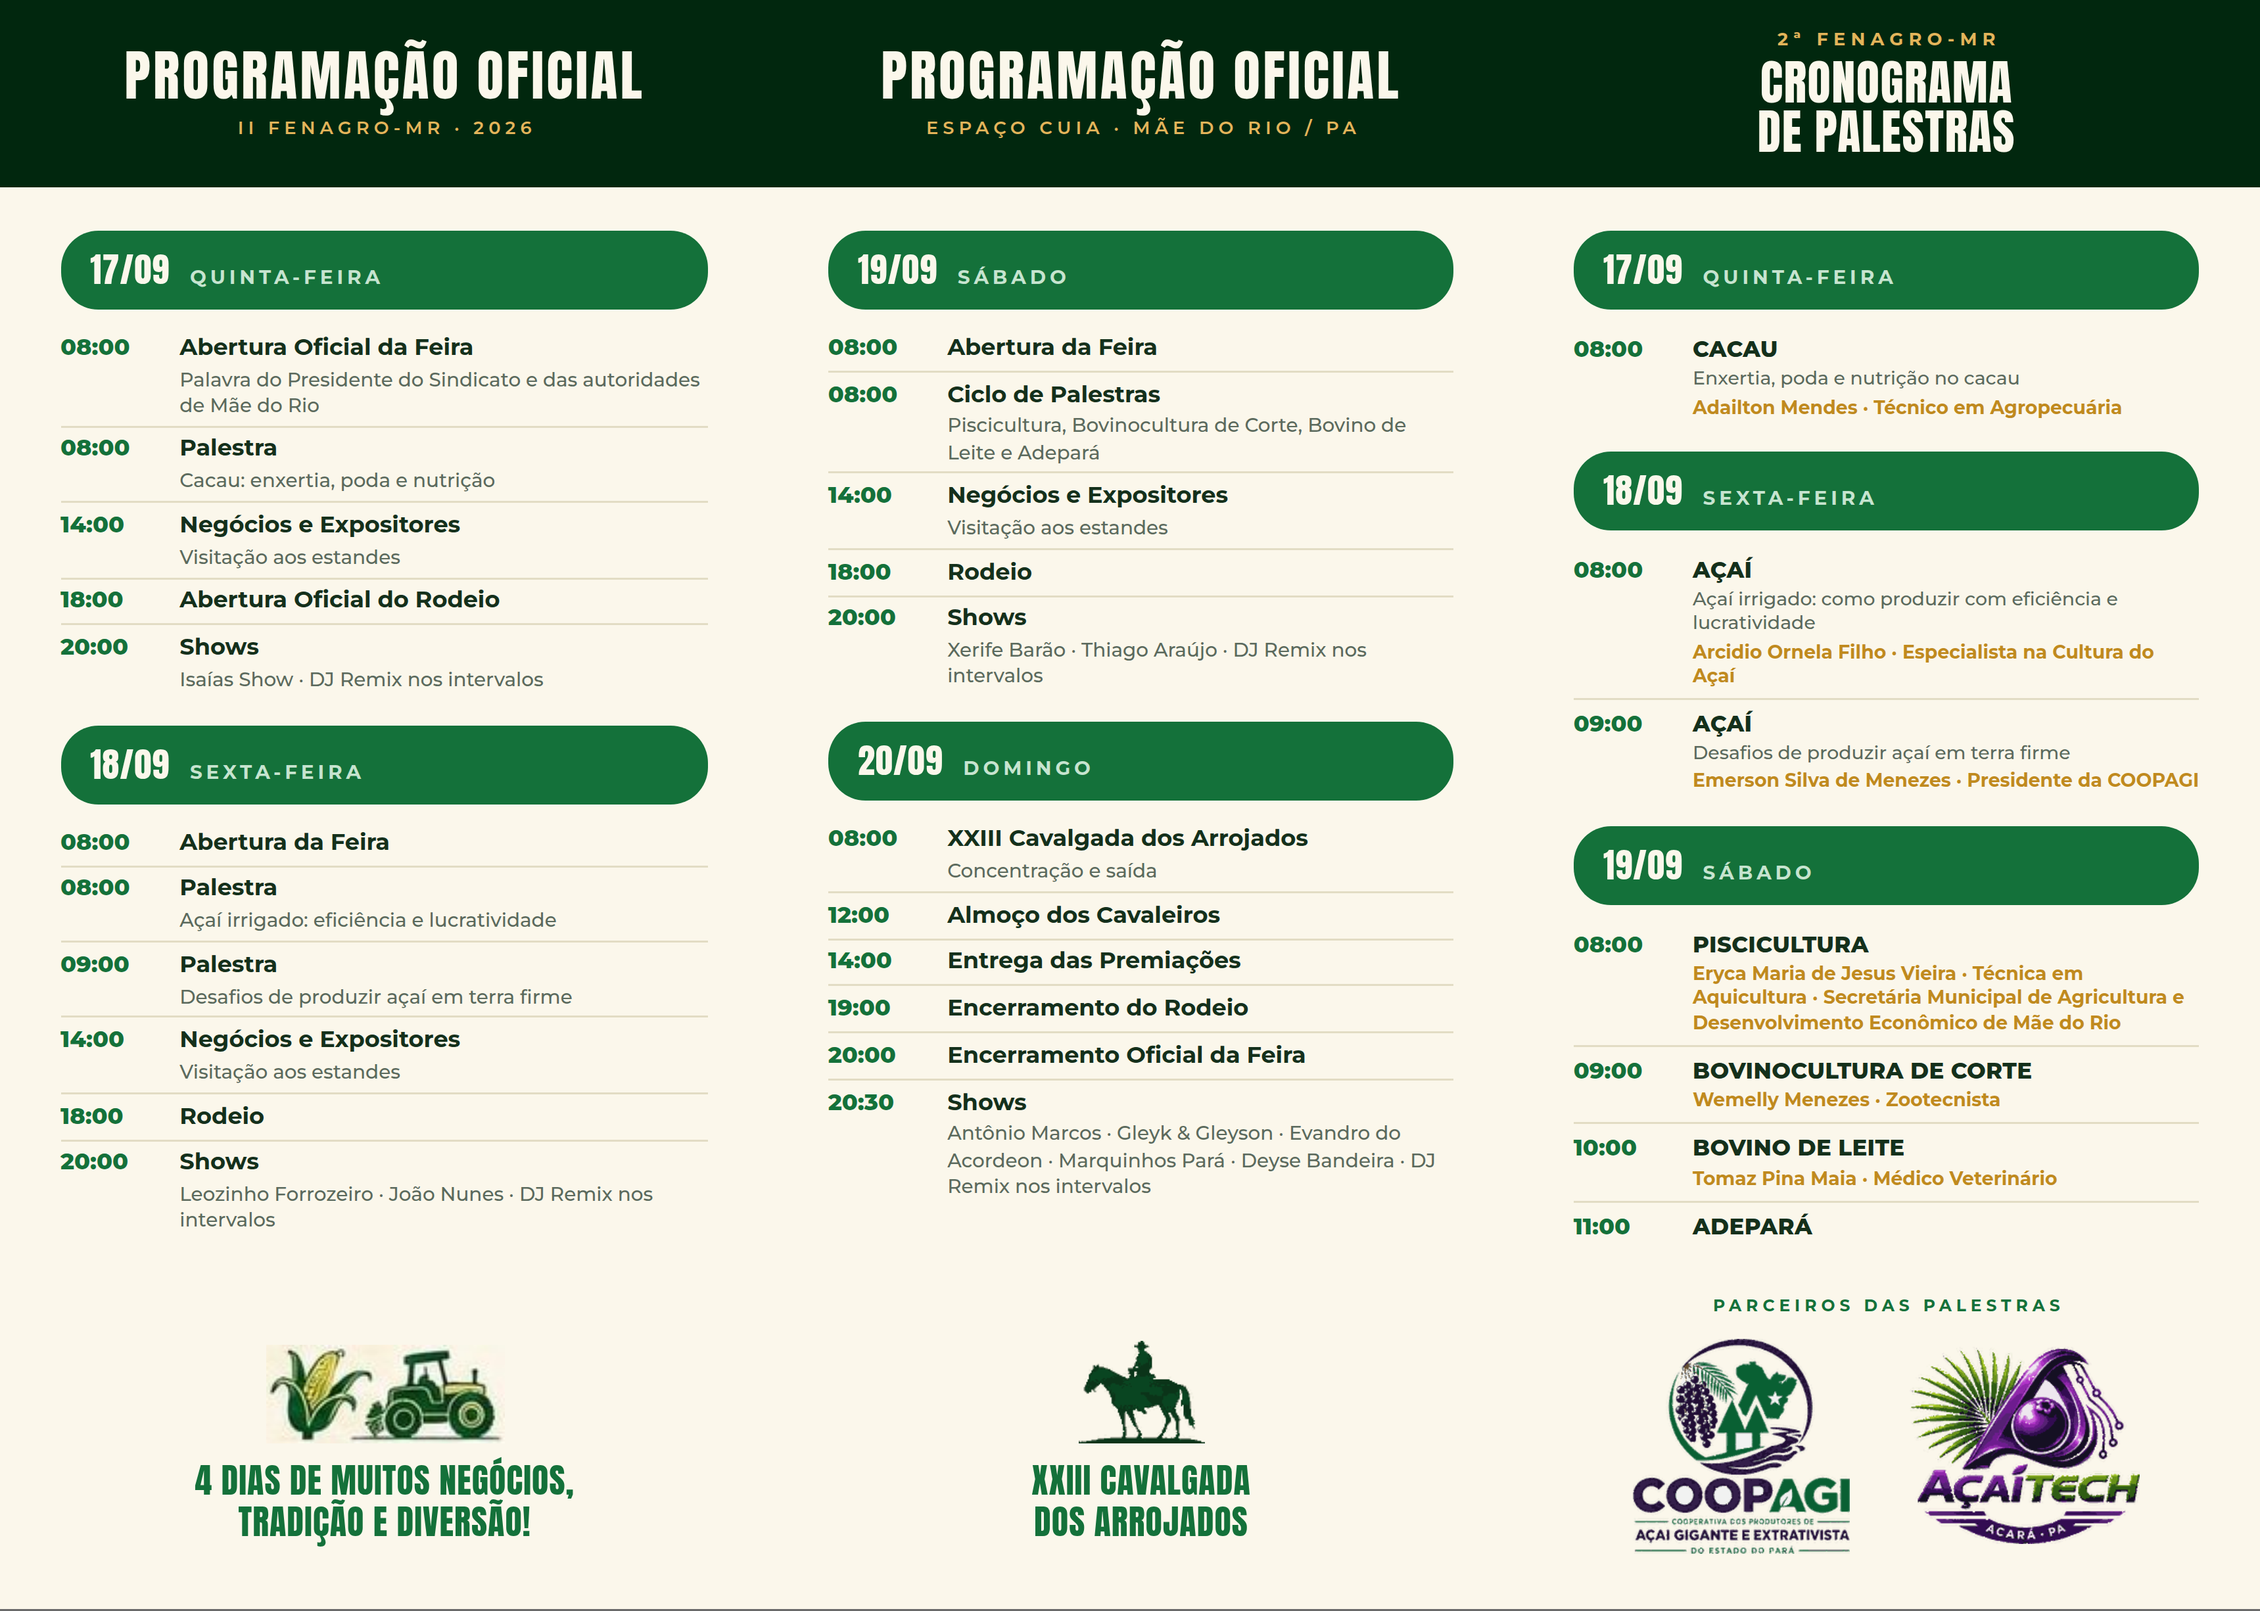
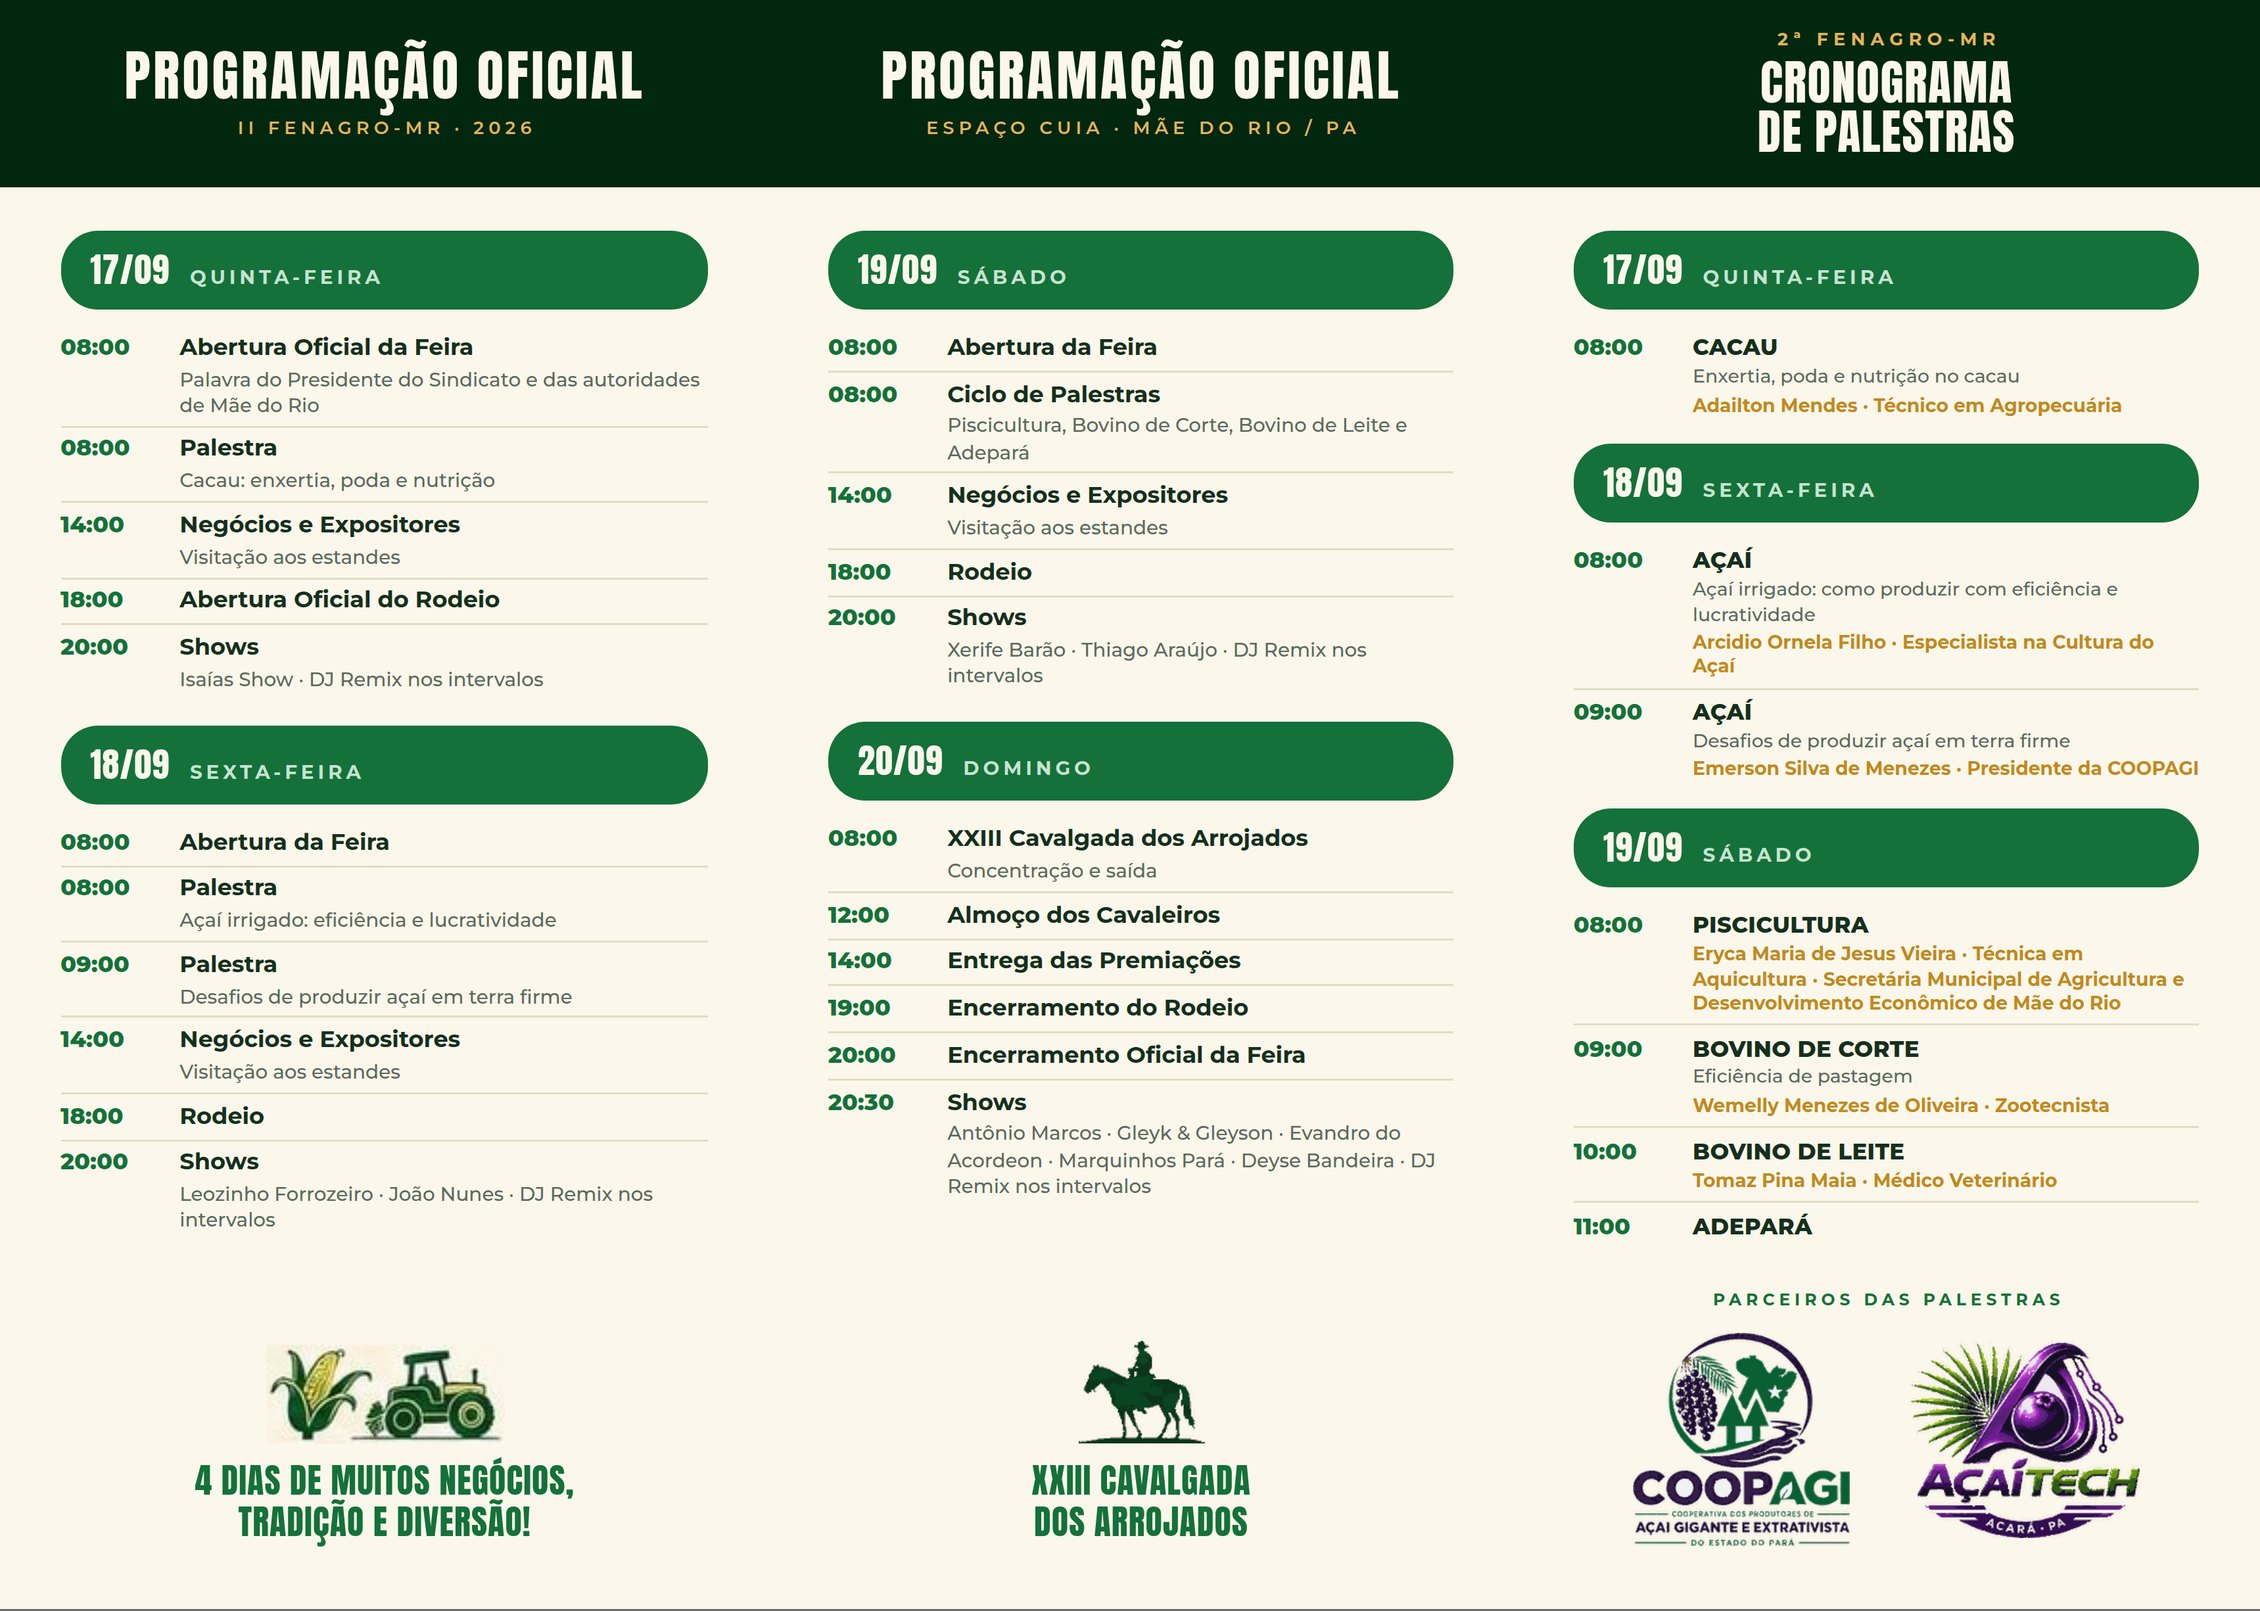
Corrige a palestra de Wemelly Menezes de Oliveira no folder
Nome completo, tema "Eficiencia de pastagem" e a palestra renomeada de
Bovinocultura de Corte para Bovino de Corte, como consta na programacao do
ciclo -- que passa a usar o mesmo nome.

A linha de tema a mais reduzia a margem de seguranca da coluna de 9 para
3,9 mm; os respiros entre palestras cedem o suficiente para voltar a 8,5 mm.

Claude-Session: https://claude.ai/code/session_01WZ2JVyz6fkCPxE73BoZuAB

diff --git a/fenagro/folder-fenagro.html b/fenagro/folder-fenagro.html
@@ -401,11 +401,11 @@ body {
 }
 
 .talks { padding-top: 0; }
-.talk-day { margin-bottom: 3mm; }
+.talk-day { margin-bottom: 2.4mm; }
 .talk {
   display: flex;
   gap: 3mm;
-  padding: 1.3mm 0;
+  padding: 1.1mm 0;
   border-bottom: 0.25mm solid #E2DCC4;
 }
 .talk:last-child { border-bottom: 0; }
@@ -556,7 +556,7 @@ body {
         <div class="band-title">PROGRAMA&Ccedil;&Atilde;O OFICIAL</div>
         <div class="band-sub">ESPA&Ccedil;O CUIA &middot; M&Atilde;E DO RIO / PA</div>
       </div>
-      <div class="day"><div class="day-pill"><span class="day-date">19/09</span><span class="day-week">S&Aacute;BADO</span></div><div class="row"><span class="row-time">08:00</span><span class="row-body"><span class="row-title">Abertura da Feira</span></span></div><div class="row"><span class="row-time">08:00</span><span class="row-body"><span class="row-title">Ciclo de Palestras</span><span class="row-sub">Piscicultura, Bovinocultura de Corte, Bovino de Leite e Adepar&aacute;</span></span></div><div class="row"><span class="row-time">14:00</span><span class="row-body"><span class="row-title">Neg&oacute;cios e Expositores</span><span class="row-sub">Visita&ccedil;&atilde;o aos estandes</span></span></div><div class="row"><span class="row-time">18:00</span><span class="row-body"><span class="row-title">Rodeio</span></span></div><div class="row"><span class="row-time">20:00</span><span class="row-body"><span class="row-title">Shows</span><span class="row-sub">Xerife Bar&atilde;o &middot; Thiago Ara&uacute;jo &middot; DJ Remix nos intervalos</span></span></div></div>
+      <div class="day"><div class="day-pill"><span class="day-date">19/09</span><span class="day-week">S&Aacute;BADO</span></div><div class="row"><span class="row-time">08:00</span><span class="row-body"><span class="row-title">Abertura da Feira</span></span></div><div class="row"><span class="row-time">08:00</span><span class="row-body"><span class="row-title">Ciclo de Palestras</span><span class="row-sub">Piscicultura, Bovino de Corte, Bovino de Leite e Adepar&aacute;</span></span></div><div class="row"><span class="row-time">14:00</span><span class="row-body"><span class="row-title">Neg&oacute;cios e Expositores</span><span class="row-sub">Visita&ccedil;&atilde;o aos estandes</span></span></div><div class="row"><span class="row-time">18:00</span><span class="row-body"><span class="row-title">Rodeio</span></span></div><div class="row"><span class="row-time">20:00</span><span class="row-body"><span class="row-title">Shows</span><span class="row-sub">Xerife Bar&atilde;o &middot; Thiago Ara&uacute;jo &middot; DJ Remix nos intervalos</span></span></div></div>
       <div class="day"><div class="day-pill"><span class="day-date">20/09</span><span class="day-week">DOMINGO</span></div><div class="row"><span class="row-time">08:00</span><span class="row-body"><span class="row-title">XXIII Cavalgada dos Arrojados</span><span class="row-sub">Concentra&ccedil;&atilde;o e sa&iacute;da</span></span></div><div class="row"><span class="row-time">12:00</span><span class="row-body"><span class="row-title">Almo&ccedil;o dos Cavaleiros</span></span></div><div class="row"><span class="row-time">14:00</span><span class="row-body"><span class="row-title">Entrega das Premia&ccedil;&otilde;es</span></span></div><div class="row"><span class="row-time">19:00</span><span class="row-body"><span class="row-title">Encerramento do Rodeio</span></span></div><div class="row"><span class="row-time">20:00</span><span class="row-body"><span class="row-title">Encerramento Oficial da Feira</span></span></div><div class="row"><span class="row-time">20:30</span><span class="row-body"><span class="row-title">Shows</span><span class="row-sub">Ant&ocirc;nio Marcos &middot; Gleyk &amp; Gleyson &middot; Evandro do Acordeon &middot; Marquinhos Par&aacute; &middot; Deyse Bandeira &middot; DJ Remix nos intervalos</span></span></div></div>
       <div class="orn">
[1 lines of base64/hex data omitted]
@@ -571,7 +571,7 @@ body {
         <div class="hero-eyebrow">2&ordf; FENAGRO-MR</div>
         <div class="hero-title">CRONOGRAMA<br>DE PALESTRAS</div>
       </div>
-      <div class="talks"><div class="talk-day"><div class="day-pill"><span class="day-date">17/09</span><span class="day-week">QUINTA-FEIRA</span></div><div class="talk"><span class="talk-time">08:00</span><span class="talk-body"><span class="talk-title">CACAU</span><span class="talk-theme">Enxertia, poda e nutri&ccedil;&atilde;o no cacau</span><span class="talk-who">Adailton Mendes &middot; T&eacute;cnico em Agropecu&aacute;ria</span></span></div></div><div class="talk-day"><div class="day-pill"><span class="day-date">18/09</span><span class="day-week">SEXTA-FEIRA</span></div><div class="talk"><span class="talk-time">08:00</span><span class="talk-body"><span class="talk-title">A&Ccedil;A&Iacute;</span><span class="talk-theme">A&ccedil;a&iacute; irrigado: como produzir com efici&ecirc;ncia e lucratividade</span><span class="talk-who">Arcidio Ornela Filho &middot; Especialista na Cultura do A&ccedil;a&iacute;</span></span></div><div class="talk"><span class="talk-time">09:00</span><span class="talk-body"><span class="talk-title">A&Ccedil;A&Iacute;</span><span class="talk-theme">Desafios de produzir a&ccedil;a&iacute; em terra firme</span><span class="talk-who">Emerson Silva de Menezes &middot; Presidente da COOPAGI</span></span></div></div><div class="talk-day"><div class="day-pill"><span class="day-date">19/09</span><span class="day-week">S&Aacute;BADO</span></div><div class="talk"><span class="talk-time">08:00</span><span class="talk-body"><span class="talk-title">PISCICULTURA</span><span class="talk-who">Eryca Maria de Jesus Vieira &middot; T&eacute;cnica em Aquicultura &middot; Secret&aacute;ria Municipal de Agricultura e Desenvolvimento Econ&ocirc;mico de M&atilde;e do Rio</span></span></div><div class="talk"><span class="talk-time">09:00</span><span class="talk-body"><span class="talk-title">BOVINOCULTURA DE CORTE</span><span class="talk-who">Wemelly Menezes &middot; Zootecnista</span></span></div><div class="talk"><span class="talk-time">10:00</span><span class="talk-body"><span class="talk-title">BOVINO DE LEITE</span><span class="talk-who">Tomaz Pina Maia &middot; M&eacute;dico Veterin&aacute;rio</span></span></div><div class="talk"><span class="talk-time">11:00</span><span class="talk-body"><span class="talk-title">ADEPAR&Aacute;</span></span></div></div></div>
+      <div class="talks"><div class="talk-day"><div class="day-pill"><span class="day-date">17/09</span><span class="day-week">QUINTA-FEIRA</span></div><div class="talk"><span class="talk-time">08:00</span><span class="talk-body"><span class="talk-title">CACAU</span><span class="talk-theme">Enxertia, poda e nutri&ccedil;&atilde;o no cacau</span><span class="talk-who">Adailton Mendes &middot; T&eacute;cnico em Agropecu&aacute;ria</span></span></div></div><div class="talk-day"><div class="day-pill"><span class="day-date">18/09</span><span class="day-week">SEXTA-FEIRA</span></div><div class="talk"><span class="talk-time">08:00</span><span class="talk-body"><span class="talk-title">A&Ccedil;A&Iacute;</span><span class="talk-theme">A&ccedil;a&iacute; irrigado: como produzir com efici&ecirc;ncia e lucratividade</span><span class="talk-who">Arcidio Ornela Filho &middot; Especialista na Cultura do A&ccedil;a&iacute;</span></span></div><div class="talk"><span class="talk-time">09:00</span><span class="talk-body"><span class="talk-title">A&Ccedil;A&Iacute;</span><span class="talk-theme">Desafios de produzir a&ccedil;a&iacute; em terra firme</span><span class="talk-who">Emerson Silva de Menezes &middot; Presidente da COOPAGI</span></span></div></div><div class="talk-day"><div class="day-pill"><span class="day-date">19/09</span><span class="day-week">S&Aacute;BADO</span></div><div class="talk"><span class="talk-time">08:00</span><span class="talk-body"><span class="talk-title">PISCICULTURA</span><span class="talk-who">Eryca Maria de Jesus Vieira &middot; T&eacute;cnica em Aquicultura &middot; Secret&aacute;ria Municipal de Agricultura e Desenvolvimento Econ&ocirc;mico de M&atilde;e do Rio</span></span></div><div class="talk"><span class="talk-time">09:00</span><span class="talk-body"><span class="talk-title">BOVINO DE CORTE</span><span class="talk-theme">Efici&ecirc;ncia de pastagem</span><span class="talk-who">Wemelly Menezes de Oliveira &middot; Zootecnista</span></span></div><div class="talk"><span class="talk-time">10:00</span><span class="talk-body"><span class="talk-title">BOVINO DE LEITE</span><span class="talk-who">Tomaz Pina Maia &middot; M&eacute;dico Veterin&aacute;rio</span></span></div><div class="talk"><span class="talk-time">11:00</span><span class="talk-body"><span class="talk-title">ADEPAR&Aacute;</span></span></div></div></div>
       <div class="parceiros">
         <div class="lbl">PARCEIROS DAS PALESTRAS</div>
         <div class="parceiros-row">

diff --git a/fenagro/build_folder.py b/fenagro/build_folder.py
@@ -59,7 +59,7 @@ PROGRAMACAO = [
     ("19/09", "S&Aacute;BADO", [
         ("08:00", "Abertura da Feira", ""),
         ("08:00", "Ciclo de Palestras",
-         "Piscicultura, Bovinocultura de Corte, Bovino de Leite e Adepar&aacute;"),
+         "Piscicultura, Bovino de Corte, Bovino de Leite e Adepar&aacute;"),
         ("14:00", "Neg&oacute;cios e Expositores", "Visita&ccedil;&atilde;o aos estandes"),
         ("18:00", "Rodeio", ""),
         ("20:00", "Shows", "Xerife Bar&atilde;o &middot; Thiago Ara&uacute;jo &middot; DJ Remix nos intervalos"),
@@ -91,7 +91,8 @@ PALESTRAS = [
         ("08:00", "PISCICULTURA", "", "Eryca Maria de Jesus Vieira",
          "T&eacute;cnica em Aquicultura &middot; Secret&aacute;ria Municipal de Agricultura "
          "e Desenvolvimento Econ&ocirc;mico de M&atilde;e do Rio"),
-        ("09:00", "BOVINOCULTURA DE CORTE", "", "Wemelly Menezes", "Zootecnista"),
+        ("09:00", "BOVINO DE CORTE", "Efici&ecirc;ncia de pastagem",
+         "Wemelly Menezes de Oliveira", "Zootecnista"),
         ("10:00", "BOVINO DE LEITE", "", "Tomaz Pina Maia", "M&eacute;dico Veterin&aacute;rio"),
         ("11:00", "ADEPAR&Aacute;", "", "", ""),
     ]),
@@ -572,11 +573,11 @@ body {
 }
 
 .talks { padding-top: 0; }
-.talk-day { margin-bottom: 3mm; }
+.talk-day { margin-bottom: 2.4mm; }
 .talk {
   display: flex;
   gap: 3mm;
-  padding: 1.3mm 0;
+  padding: 1.1mm 0;
   border-bottom: 0.25mm solid #E2DCC4;
 }
 .talk:last-child { border-bottom: 0; }
